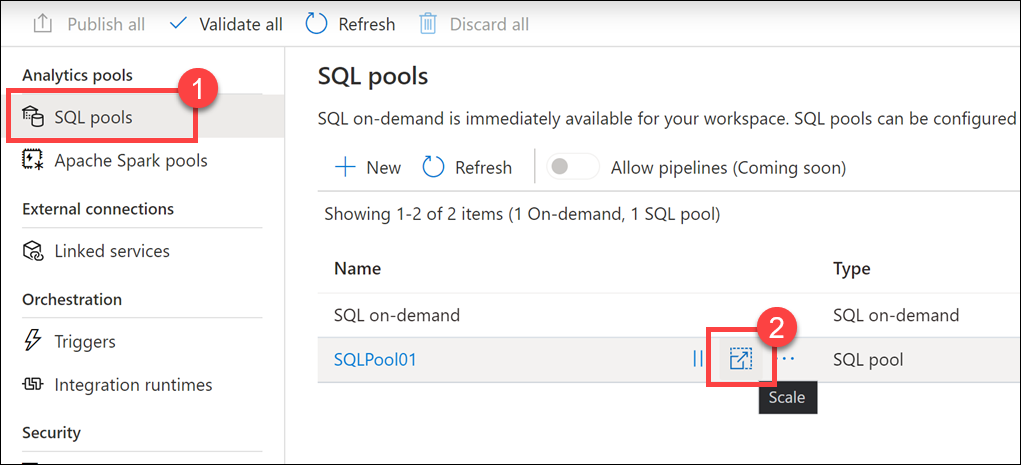
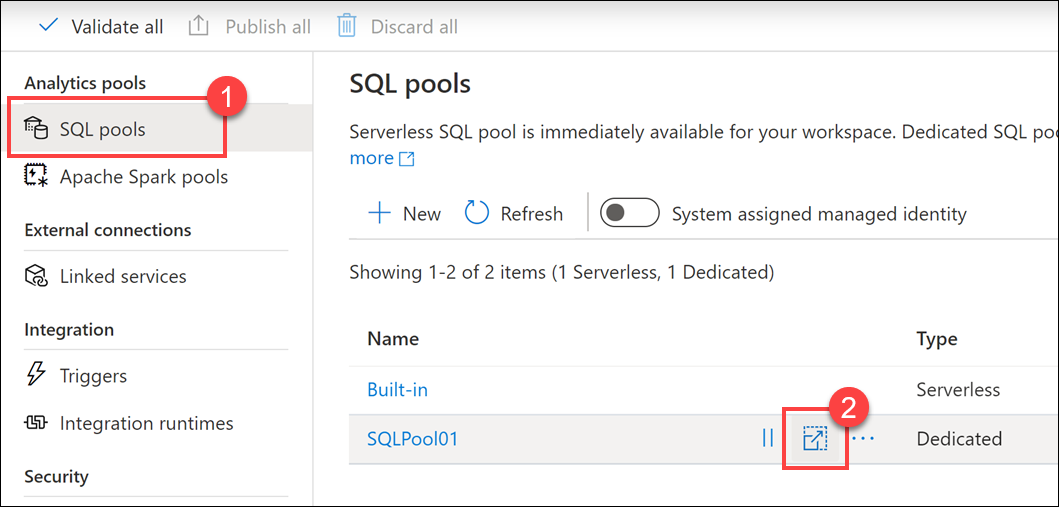
Finished updates to module 1

diff --git a/demos/module1/README.md b/demos/module1/README.md
@@ -72,7 +72,7 @@ As you will see here in our workspace, Synapse brings all of our data into a sin
 
     ![The SQL pool link is highlighted.](media/sql-pool-link.png "SQL pool")
 
-    The SQL pool is shown below with the `Essentials` portion of the Overview blade collapsed.
+    The SQL pool is shown below with the `Essentials` portion of the Overview pane collapsed.
 
     ![SQL pool.](media/sql-pool.png "SQL pool")
 
@@ -82,10 +82,10 @@ As you will see here in our workspace, Synapse brings all of our data into a sin
 
     1. At the top of the window, we see **controls (1)** to pause, scale, restore, set a new restore point, and delete the pool.
     2. Below, with the **Features** tab **(2)** selected, we see the status of the security and recovery features **(3)** for the dedicated SQL pool. `Transparent data encryption` is prominently displayed, letting us quickly see whether it is enabled to encrypt our databases, backups, and logs. Next to that, we see the `Auditing` feature to track SQL pool events and write them to an audit log. `Azure Defender for SQL`, if enabled, helps detect potential security threats and anomalous activity. Finally, the `Geo-backup` feature enables backups once per day to a paired data center.
-    3. At the bottom of the Overview blade, we see metrics showing the **Data Warehousing Units (DWU) usage** and **Active and queued queries (4)**, allowing us to filter within different time ranges.
+    3. At the bottom of the Overview pane, we see metrics showing the **Data Warehousing Units (DWU) usage** and **Active and queued queries (4)**, allowing us to filter within different time ranges.
     4. The left-hand menu includes some of these options, as well. It is here where you find the **Access control (IAM) (5)** settings to control access to the SQL pool, granted to users and services.
 
-4. Go back to the Synapse Workspace overview blade in the portal, then open the **Apache Spark pool**.
+4. Go back to the Synapse Workspace overview pane in the portal, then open the **Apache Spark pool**.
 
     ![The Spark pool link is highlighted.](media/spark-pool-link.png "Spark pool")
 
@@ -105,7 +105,7 @@ As you will see here in our workspace, Synapse brings all of our data into a sin
 
 5. Select **Packages** on the left-hand menu of the Spark pool.
 
-    ![The Packages blade of the Spark pool is displayed.](media/spark-pool-packages.png "Packages")
+    ![The Packages pane of the Spark pool is displayed.](media/spark-pool-packages.png "Packages")
 
     When you select **Packages (1)** on the left-hand menu, you can view whether a `requirements.txt` file has been added to manage Python packages for Spark instances. You can **upload an environment config file (2)**, or select the ellipses (...) to the **right-hand side of a package file (3)** to access options to re-upload, download, or delete the file.
 
@@ -113,7 +113,7 @@ As you will see here in our workspace, Synapse brings all of our data into a sin
 
 1. Open Synapse workspace in the resource group, then select either **Open Synapse Studio** or the **Workspace web URL**.
 
-    ![The two Synapse Studio links are highlighted with an arrow pointing between them on the Overview blade of Synapse workspace.](media/synapse-workspace-studio-links.png "Synapse workspace")
+    ![The two Synapse Studio links are highlighted with an arrow pointing between them on the Overview pane of Synapse workspace.](media/synapse-workspace-studio-links.png "Synapse workspace")
 
     > **Note to presenter**: Copy the Synapse Studio URL, then open a separate Edge window in-private mode to work around login challenges if using a different account for the demo.
 
@@ -202,7 +202,7 @@ As you will see here in our workspace, Synapse brings all of our data into a sin
 
 2. Expand Pipelines and select **1 Master Pipeline (1)**. Point out the **Activities (2)** that can be added to the pipeline, and show the **pipeline canvas (3)** on the right.
 
-    ![The pipelines group is expanded within the Orchestrate hub.](media/orchestrate-pipelines.png "Orchestrate - Pipelines")
+    ![The pipelines group is expanded within the Integrate hub.](media/integrate-pipelines.png "Integrate - Pipelines")
 
     Our Synapse workspace contains 16 pipelines that enable us to orchestrate data movement and transformation steps over data from several sources.
 
@@ -220,7 +220,7 @@ As you will see here in our workspace, Synapse brings all of our data into a sin
 
     The Monitor hub is your first stop for debugging issues and gaining insight on resource usage. You can see a history of all the activities taking place in the workspace and which ones are active now.
 
-2. Show each of the monitoring categories grouped under Orchestration and Activities.
+2. Show each of the monitoring categories grouped under Integration and Activities.
 
     ![The categories are highlighted.](media/monitoring-categories.png "Monitoring categories")
 
@@ -233,7 +233,7 @@ As you will see here in our workspace, Synapse brings all of our data into a sin
 
 3. Select **SQL requests (1)**, then switch to the **SQLPool01 (2)** pool to see the list of SQL requests.
 
-    ![The SQL requests blade is shown with the SQL pool selected.](media/monitoring-sql-requests.png "SQL requests")
+    ![The SQL requests pane is shown with the SQL pool selected.](media/monitoring-sql-requests.png "SQL requests")
 
 4. Hover over a SQL request, then select the **Request content** icon to view the SQL request that was sent to the SQL pool. *You may need to try a few before you find one with interesting content*.
 
@@ -249,17 +249,18 @@ As you will see here in our workspace, Synapse brings all of our data into a sin
 
     The Manage hub enables you to perform some of the same actions we saw in the Azure portal, such as managing SQL and Spark pools. However, there is a lot more you can do in this hub that you cannot do anywhere else, such as managing Linked Services and integration runtimes, and creating pipeline triggers.
 
-2. Show each of the management categories grouped under Analytics pools, External connections, Orchestration, and Security.
+2. Show each of the management categories grouped under Analytics pools, External connections, Integration, and Security.
 
     ![The categories are highlighted.](media/manage-categories.png "Manage categories")
 
-    1. **SQL pools** lists the dedicated SQL pools and the serverless SQL pools for the workspace. You can can add new pools or hover over a dedicated SQL pool to **pause** or **scale** it. You should pause a dedicated SQL pool when it's not being used in order to save costs.
-    2. **Apache Spark pools** lets you manage your Spark pools by configuring the auto-pause and auto-scale settings. You can provision a new Apache Spark pool from this blade.
+    1. **SQL pools** lists the dedicated SQL pools and the serverless SQL pools for the workspace. You can add new pools or hover over a dedicated SQL pool to **pause** or **scale** it. You should pause a dedicated SQL pool when it's not being used in order to save costs.
+    2. **Apache Spark pools** lets you manage your Spark pools by configuring the auto-pause and auto-scale settings. You can provision a new Apache Spark pool from this pane.
     3. **Linked services** enables you to manage connections to external resources. Here you can see linked services for our data lake storage account, Azure Key Vault, Power BI, and Azure Synapse. **Task**: Select **+ New** to show how many types of linked services you can add.
     4. **Triggers** provides you a central location to create or remove pipeline triggers. Alternatively, you can add triggers from the pipeline.
     5. **Integration runtimes** lists the IR for the workspace, which serve as the compute infrastructure for data integration capabilities, like those provided by pipelines. **Task**: Hover over the integration runtimes to show the monitoring, code, and delete (if applicable) links. Click on a **code link** to show how you can modify the parameters in JSON format, including the TTL (time to live) setting for the IR.
     6. **Access control** is where you go to add and remove users to one of three security groups: workspace admin, SQL admin, and Apache Spark for Azure Synapse Analytics admin.
-    7. **Managed private endpoints** is where you manage private endpoints, which use a private IP address from within a virtual network to connect to an Azure service or your own private link service. Connections using private endpoints listed here provide access to Synapse workspace endpoints (SQL, SqlOndemand and Dev).
+    7. **Credentials** lets you manage Service Principal credentials used by the workspace, including the workspace system identity account.
+    8. **Managed private endpoints** is where you manage private endpoints, which use a private IP address from within a virtual network to connect to an Azure service or your own private link service. Connections using private endpoints listed here provide access to Synapse workspace endpoints (dedicated SQL, serverless SQL, and Dev).
 
 ## Designing a Modern Data Warehouse using Azure Synapse Analytics
 
@@ -335,13 +336,13 @@ Azure Synapse enables you to ingest data from multiple data sources through its 
 
 11. Select the **SAP HANA TO ADLS** pipeline. This pipeline copies data from a financial SAP HANA data source into the dedicated SQL pool.
 
-12. Select the **+** button at the top of the **Orchestrate** blade, then select **Pipeline** to create a new pipeline.
+12. Select the **+** button at the top of the **Integrate** pane, then select **Pipeline** to create a new pipeline.
 
     ![The New and Pipeline menu items are highlighted.](media/new-pipeline.png "New pipeline")
 
-    When the new pipeline opens, the **Properties** blade appears **(1)**, allowing you to name the pipeline **(2)**.
+    When the new pipeline opens, the **Properties** pane appears **(1)**, allowing you to name the pipeline **(2)**.
 
-    ![The properties blade is displayed.](media/new-pipeline-properties.png "Properties")
+    ![The properties pane is displayed.](media/new-pipeline-properties.png "Properties")
 
 13. Expand the `Move & transform` activity group, then drag the **Copy data** activity onto the design canvas **(1)**. With the Copy data activity selected, select the **Source** tab **(2)**, then select **+ New (3)** next to the source dataset.
 
@@ -445,11 +446,11 @@ Azure Synapse enables you to ingest data from multiple data sources through its 
 
     ![The data hub is highlighted](media/data-hub.png "Data hub")
 
-9. Select the **Linked** tab **(1)**, expand the `Azure Data Lake Storage Gen2` group, expand the Primary storage account, then select the **twitterdata** container **(2)**. Right-click on the **dbo.TwitterAnalytics.parquet** file **(3)**, then select **New notebook (4)**.
+9. Select the **Linked** tab **(1)**, expand the `Azure Data Lake Storage Gen2` group, expand the Primary storage account, then select the **twitterdata** container **(2)**. Right-click on the **dbo.TwitterAnalytics.parquet** file **(3)**, select **New notebook (4)**, then **Load to DataFrame (5)**.
 
     ![The TwitterAnalytics Parquet file and New notebook menu item are highlighted.](media/new-twitteranalytics-notebook.png "New notebook")
 
-    Synapse Studio provides several options to work with files stored in attached storage accounts, such as creating a new SQL script, a notebook, data flow, or new dataset.
+    Synapse Studio provides several options to work with files stored in attached storage accounts, such as creating a new SQL script, a notebook, data flow, or a new dataset.
 
     Synapse Notebooks enable you to harness the power of Apache Spark to explore and analyze data, conduct data engineering tasks, and do data science. Authentication and authorization with linked services, such as the primary data lake storage account, are fully integrated, allowing you to immediately start working with files without dealing with account credentials.
 
@@ -469,7 +470,7 @@ Azure Synapse enables you to ingest data from multiple data sources through its 
 
 2. Expand Pipelines and select **1 Master Pipeline (1)**. Point out the **Activities (2)** that can be added to the pipeline, and show the **pipeline canvas (3)** on the right.
 
-    ![The pipelines group is expanded within the Orchestrate hub.](media/orchestrate-pipelines.png "Orchestrate - Pipelines")
+    ![The pipelines group is expanded within the Integrate hub.](media/orchestrate-pipelines.png "Integrate - Pipelines")
 
     Our Synapse workspace contains 16 pipelines that enable us to orchestrate data movement and transformation steps over data from several sources.
 
@@ -510,10 +511,10 @@ Azure Synapse enables you to ingest data from multiple data sources through its 
     1. Extracts data from the SAP HANA data source (**Select `DatafromSAPHANA` step**).
     2. Retrieves only those rows for an upsert activity, where the `ShipDate` value is greater than `2014-01-01` (**Select `Last5YearsData` step**).
     3. Performs data type transformations on the source columns, using a Derived Column activity (**Select the top `DerivedColumn` activity**).
-    4. In the top path of the data flow, we select all columns, then load the data into the `AggregatedSales_SAPHANANew` Synapse pool table (**Select the `Selectallcolumns` activity and the `LoadtoAzureSynapse` activity**).
+    4. In the top path of the data flow, we select all columns, then load the data into the `AggregatedSales_SAPHANANew` dedicated SQL pool table (**Select the `Selectallcolumns` activity and the `LoadtoAzureSynapse` activity**).
     5. In the bottom path of the data flow, we select a subset of the columns (**Select the `SelectRequiredColumns` activity**).
     6. Then we group by four of the columns (**Select the `TotalSalesByYearMonthDay` activity**) and create sum and average aggregates on the `SalesAmount` column (**Select the Aggregates option**).
-    7. Finally, the aggregated data is loaded into the `AggregatedSales_SAPHANA` Synapse pool table (**Select the `LoadtoSynapse` activity**).
+    7. Finally, the aggregated data is loaded into the `AggregatedSales_SAPHANA` dedicated SQL pool table (**Select the `LoadtoSynapse` activity**).
 
 #### Stage 2: Model & serve
 
